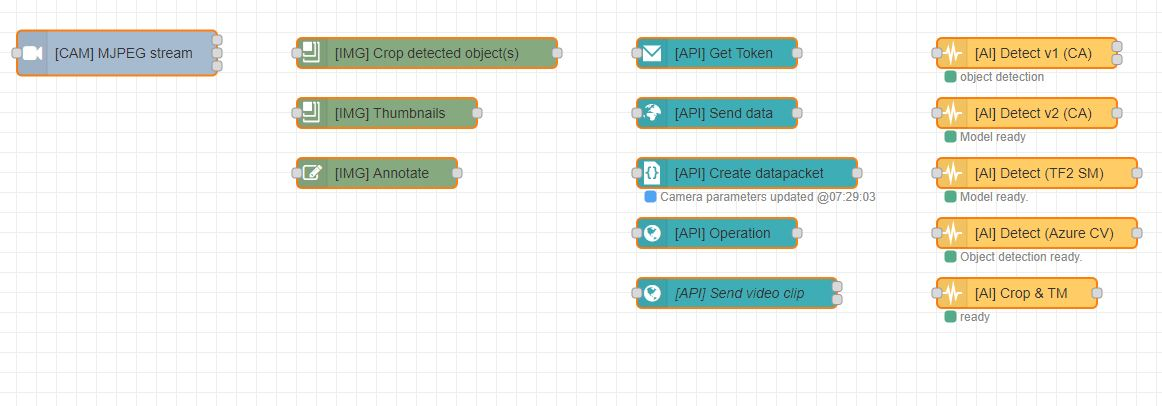
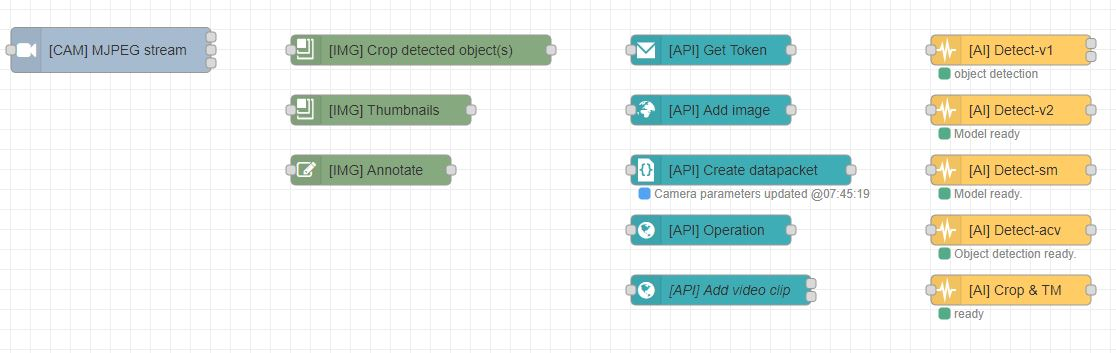
updated files and descriptions

diff --git a/README.md b/README.md
@@ -15,20 +15,23 @@ Most of these subflows have external dependencies, that will be (hopefully) inst
 
 ### Available subflows
 
-| Subflow                   | Version         | Desc | JSON |
-| --------------------------|:---------------:| :-------------:| :-------------:|
-| IP-stream                 | 0.0.1           | Open MPJEG-stream from IP-camera. Tested with Basler BIP2-1920. | <a href="subflows/ip-camera.json">json</a> |
-| [AI] Inference            | 0.0.1	          | Make prediction on image with Tensorflow.js model trained with tequ-tf1-training-pipeline. | <a href="subflows/ai-inference.json">json</a> |
-| [AI] Detect               | 0.0.1           | Make prediction on image with Tensorflow saved model trained with tequ-tf1-training-pipeline. | <a href="subflows/ai-predict.json">json</a> |
-| [AI] Azure Custom Vision  | 0.0.1           | Make prediction on image with Tensorflow.js model exported from Microsoft Custom Vision | <a href="subflows/ai-azure-custom-vision.json">json</a>  |
-| [AI] Predict              | 0.0.1     | Make prediction on image with Tensorflow saved model trained with tequ-tf2-training-pipeline | <a href="subflows/ai-predict.json">json</a> |
-| [AI] Annotate	            | 0.0.1           | Annotates prediction results from [AI] Inference subflow. | <a href="subflows/ai-annotate.json">json</a> |
-| [AI] Thumbnails           | 0.0.1           | Creates thumbnails of original image and annotated image. | <a href="subflows/ai-thumbnails.json">json</a> |
-| [API] Create datapacket   | 0.0.1           | Creates datapacket ready to send to Tequ-API. Supports Basler BIP2-1920 IP-camera at the moment. | <a href="subflows/api-create-datapacket.json">json</a> |
-| [API] Send image          | 0.0.1           | Send image to Tequ-API. Saves image to local filesystem if API is not available. | <a href="subflows/api-send-image.json">json</a> |
-| [API] Get Token           | 0.0.1           | Retrieves token from Tequ-API. | <a href="subflows/api-get-token.json">json</a> |
-| [AI] Crop & TM            | 0.0.1           | Crops results from '[AI] Inference' and makes prediction on cropped images with Teachable Machine model. | <a href="subflows/ai-crop-tm.json">json</a> |
-| [AI] Crop detected object | 0.0.1           | Crops results from '[AI] Inference' | <a href="subflows/ai-crop-detected-object.json">json</a> |
+| Subflow                     | Version         | Desc | JSON |
+| ----------------------------|:---------------:| :-------------:| :-------------:|
+| [CAM] MPJEG stream          | 0.0.1           | Open MPJEG-stream from IP-camera. Tested with Basler BIP2-1920. | <a href="subflows/cam-ip-camera.json">json</a> |
+| [AI] Detect-v1              | 0.0.1	          | Make prediction on image with Tensorflow.js model trained with tequ-tf1-training-pipeline. | <a href="subflows/ai-detect-v1.json">json</a> |
+| [AI] Detect-v2              | 0.0.1           | Make prediction on image with Tensorflow.js model trained with tequ-tf1-training-pipeline. | <a href="subflows/ai-detect-v2.json">json</a> |
+| [AI] Detect-sm              | 0.0.1           | Make prediction on image with Tensorflow saved model trained with tequ-tf2-training-pipeline | <a href="subflows/ai-detect-sm.json">json</a> |
+| [AI] Detect-acv             | 0.0.1           | Make prediction on image with Tensorflow.js model trained and exported from Microsoft Azure Custom Vision | <a href="subflows/ai-detect-acv.json">json</a>  |
+| [AI] Crop & TM              | 0.0.1           | Crops results from '[AI] detect subflows' and classify cropped area(s) with Teachable Machine model. | <a href="subflows/ai-crop-tm.json">json</a> |
+| [IMG] Annotate	            | 0.0.1           | Annotates prediction results from [AI] Inference subflow. | <a href="subflows/img-annotate.json">json</a> |
+| [IMG] Thumbnails            | 0.0.1           | Creates thumbnails of original image and annotated image. | <a href="subflows/img-thumbnails.json">json</a> |
+| [IMG] Crop detected object(s) | 0.0.1         | Creates thumbnails of original image and annotated image. | <a href="subflows/img-crop-detected-object.json">json</a> |
+| [API] Get Token             | 0.0.1           | Retrieve token from Tequ-API. | <a href="subflows/api-get-token.json">json</a> |
+| [API] Create datapacket     | 0.0.1           | Creates datapacket ready to send to Tequ-API. Supports Basler BIP2-1920 IP-camera at the moment. | <a href="subflows/api-create-datapacket.json">json</a> |
+| [API] Add image            | 0.0.1            | Send image to Tequ-API. Saves image to local filesystem if API is not available. | <a href="subflows/api-send-image.json">json</a> |
+| [API] Add video clip       | 0.0.1            | Send image to Tequ-API. Saves image to local filesystem if API is not available. | <a href="subflows/api-send-video.json">json</a> |
+| [API] Operation            | 0.0.1            | **N/A** | <a href="subflows/api-operation.json">json</a> |
+
 
 
 ### Subflows palette
